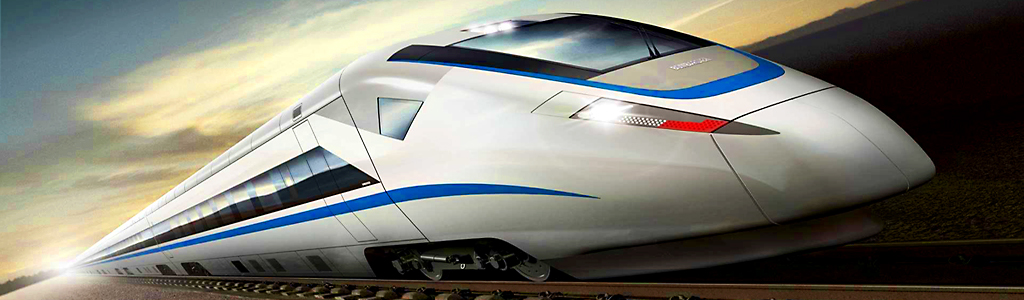
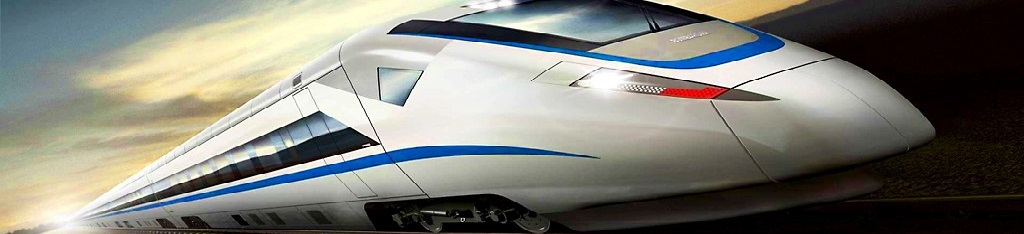
fatto con la graffica anche

diff --git a/index.html b/index.html
@@ -1,17 +1,52 @@
 <!DOCTYPE html>
 <html lang="en">
+
 <head>
     <meta charset="UTF-8">
     <meta http-equiv="X-UA-Compatible" content="IE=edge">
     <meta name="viewport" content="width=device-width, initial-scale=1.0">
     <title>Biglieto treno</title>
-    <link rel="stylesheet" href="https://cdn.jsdelivr.net/npm/bootstrap@4.3.1/dist/css/bootstrap.min.css" integrity="sha384-ggOyR0iXCbMQv3Xipma34MD+dH/1fQ784/j6cY/iJTQUOhcWr7x9JvoRxT2MZw1T" crossorigin="anonymous">
+    <link rel="stylesheet" href="https://cdn.jsdelivr.net/npm/bootstrap@4.3.1/dist/css/bootstrap.min.css"
+        integrity="sha384-ggOyR0iXCbMQv3Xipma34MD+dH/1fQ784/j6cY/iJTQUOhcWr7x9JvoRxT2MZw1T" crossorigin="anonymous">
 </head>
+
 <body>
-    
+    <header class="masthead bg-image">
+        <img class="bgimg w-100 h-50" src="./img/high-speed-train-header.jpg" alt="train">
+        <div class="container h-100 carousel-caption">
+            <div class="row h-100 align-items-center">
+                <div class="col-12 text-top text-dark">
+                    <h1 class="text-primary">Calcola prezzo per tuo biglietto treno</h1>
+                </div>
+            </div>
+        </div>
+    </header>
+    <div class="main d-flex justify-content-center">
 
 
-    <script src="https://cdn.jsdelivr.net/npm/bootstrap@5.2.2/dist/js/bootstrap.bundle.min.js" integrity="sha384-OERcA2EqjJCMA+/3y+gxIOqMEjwtxJY7qPCqsdltbNJuaOe923+mo//f6V8Qbsw3" crossorigin="anonymous"></script>
-    <script type="text/javascript" src="script.js"></script>
+        <div class="card" style="width: 18rem;">
+            <img class="card-img-top" src="./img/train-front.svg" alt="Card image cap">
+            <div class="card-body">
+              <h5 class="card-title">Biglieto treno</h5>
+              <label>Inserisci distanza in km: </label>
+              <input type="text" class="form-control" id="idistanza">
+              <label>Inserisci eta anni: </label>
+              <input type="text" class="form-control" id="ieta">
+              <br>
+              <p id="oprezzo" style="text-align: right;"></p>
+              <br>
+              <a href="#" id="btncalc" class="btn btn-primary p-2 m-3">Calcola Tariffa</a>
+              
+            </div>
+          </div>
+
+
+    </div>
+
+        <script src="https://cdn.jsdelivr.net/npm/bootstrap@5.2.2/dist/js/bootstrap.bundle.min.js"
+            integrity="sha384-OERcA2EqjJCMA+/3y+gxIOqMEjwtxJY7qPCqsdltbNJuaOe923+mo//f6V8Qbsw3"
+            crossorigin="anonymous"></script>
+        <script type="text/javascript" src="script.js"></script>
 </body>
+
 </html>

diff --git a/script.js b/script.js
@@ -1,4 +1,5 @@
-let distanza = prompt(`Inserisci kilometri da percorere: `);
+/*
+let distanza = prompt(`Inserisci kilometri: `);
 let eta = prompt(`Inserisci la tua eta: `);
 let costo = distanza * 0.21;
 let prezzo;
@@ -12,7 +13,34 @@ if(eta>65){
     prezzo=costo;
 }
 }
+*/
+let btn = document.getElementById("btncalc");
 
+btn.addEventListener('click',function(){
+
+let distanza = document.getElementById("idistanza").value;
+let eta = document.getElementById("ieta").value;
+eta = parseInt(eta);
+let costo = parseFloat( distanza * 0.21);
+let prezzo;
+if(eta<18){
+    prezzo = costo*0.8;
+}else{
+
+if(eta>65){
+    prezzo=costo * 0.6;
+}else{
+    prezzo=costo;
+}
+}
+let tarifa = parseFloat(prezzo).toFixed(2);
+
+document.getElementById("oprezzo").innerHTML = `Prezzo per viaggo:  `+ tarifa+`\u20AC`;
+
+});
+
+
+/*
 let display = `
 --------------------------------
 Eta :              ${eta} anni
@@ -21,3 +49,4 @@ Prezzo per viaggo: ${parseFloat(prezzo).toFixed(2)} \u20AC
 --------------------------------`;
 
 console.log(display);
+*/
